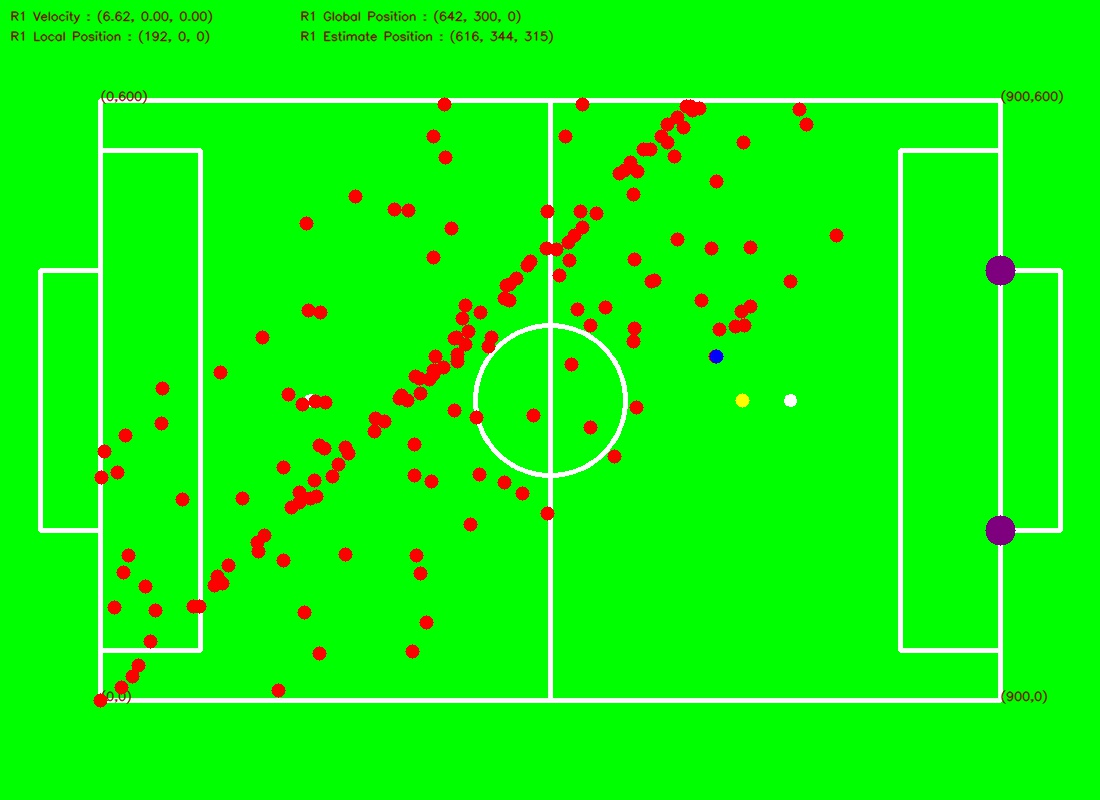
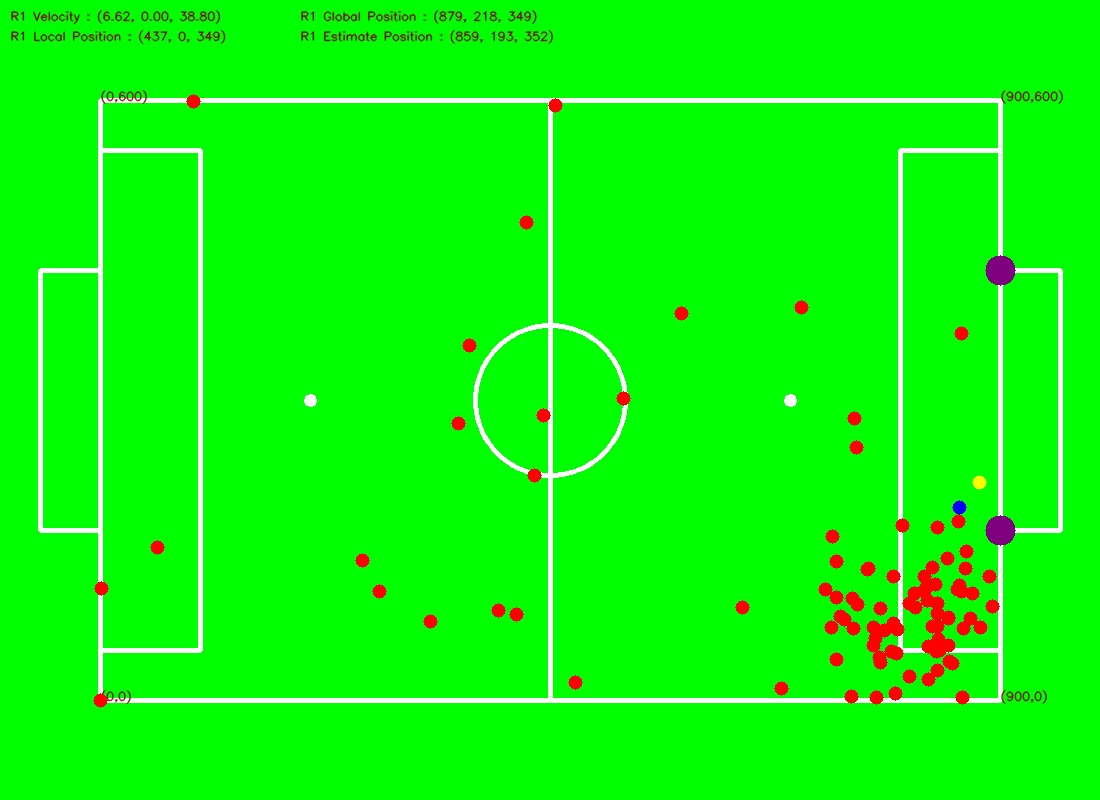
Fix update motion model robot 1

diff --git a/Source-Code/BarelangFC-Particle-Filter-Sim.py b/Source-Code/BarelangFC-Particle-Filter-Sim.py
@@ -24,57 +24,16 @@ UDP_PORT = 5005
 # Satuan dalam CM
 fieldLength = 900
 fieldWidth = 600
-totalParticles = 1000
+totalParticles = 100
 totalLandmarks = 2
-deltaTime = 1
-
-mapImage = np.zeros((800,1100,3), np.uint8)
-
-# Global Variable
-# Robot position 1D array
-robotGlobalPosition = np.zeros((3))
-robotInitialPosition = np.zeros((3))
-robotLocalPosition = np.zeros((3))
-
-# Estimate position
-estimatePosition = np.zeros((3))
-
-# Landmarks position 2D array
-landmarksPosition = np.zeros((totalLandmarks, 2))
-
-particlesGlobalPosition = np.zeros((totalParticles, 3))
-particlesLocalPosition = np.zeros((totalParticles, 3))
-particlesInitialPosition = np.zeros((totalParticles, 3))
-
-distanceRobotToLandmarks = np.zeros((totalLandmarks))
-distanceParticlesToLandmarks = np.zeros((totalParticles, totalLandmarks))
-particlesWeight= np.zeros((totalParticles))
-
-velFromKinematic = np.zeros((3))
-
-# Simualte velocity value
-# X Y alpha velocity command from robot
-realVelocity = np.zeros([3])
- 
+deltaTime = 0.5
 
 # Flask Webserver
 ##############################################################################
 # Definisi ID robot
-
 robotID = 1
 
 app = Flask(__name__)
-
-def shutdown_server():
-    func = request.environ.get('werkzeug.server.shutdown')
-    if func is None:
-        raise RuntimeError('Not running with the Werkzeug Server')
-    func()
-
-@app.route('/shutdown', methods=['POST'])
-def shutdown():
-    shutdown_server()
-    return 'Server shutting down...'
 
 # http://mattrichardson.com/Raspberry-Pi-Flask/
 @app.route('/')
@@ -120,6 +79,31 @@ def worldCoorToImageCoor(x, y):
     return x, y
 
 def main():
+    mapImage = np.zeros((800,1100,3), np.uint8)
+
+    # Global Variable
+    robotGlobalPosition = np.zeros((3))
+    robotInitialPosition = np.zeros((3))
+    robotLocalPosition = np.zeros((3))
+
+    # Estimate position
+    estimatePosition = np.zeros((3))
+
+    # Landmarks position 2D array
+    landmarksPosition = np.zeros((totalLandmarks, 2))
+
+    particlesGlobalPosition = np.zeros((totalParticles, 3))
+    particlesLocalPosition = np.zeros((totalParticles, 3))
+    particlesInitialPosition = np.zeros((totalParticles, 3))
+
+    distanceRobotToLandmarks = np.zeros((totalLandmarks))
+    distanceParticlesToLandmarks = np.zeros((totalParticles, totalLandmarks))
+    particlesWeight= np.zeros((totalParticles))
+
+    velFromKinematic = np.zeros((3))
+
+    realVelocity = np.zeros([3])
+
     # Set initial location of robot
     robotInitialPosition[0] = 450
     robotInitialPosition[1] = 300
@@ -134,8 +118,8 @@ def main():
     robotLocalPosition[2] = 0 # Heading
 
     # Initialize landmark position
-    landmarksPosition[:, 0] = uniform(0, fieldLength, size=totalLandmarks)
-    landmarksPosition[:, 1] = uniform(0, fieldWidth, size=totalLandmarks)
+    landmarksPosition[:,0] = uniform(0, fieldLength, size=totalLandmarks)
+    landmarksPosition[:,1] = uniform(0, fieldWidth, size=totalLandmarks)
 
     # Gawang lawan
     landmarksPosition[0,0] = 900
@@ -145,16 +129,15 @@ def main():
   
     velFromKinematic[0] = 0.02
     velFromKinematic[1] = 0.00
-    velFromKinematic[2] = 0.0
+    velFromKinematic[2] = 0.3
 
     # Create random position of particles
     # print 'Process ==> Create random particles'
-    particlesInitialPosition[:, 0] = uniform(0, fieldLength, size=totalParticles)
-    particlesInitialPosition[:, 1] = uniform(0, fieldWidth, size=totalParticles)
-    particlesInitialPosition[:, 2] = uniform(0, 360, size=totalParticles) 
-    particlesInitialPosition[:, 0] = np.random.choice(particlesInitialPosition[:, 0], totalParticles) 
-    particlesInitialPosition[:, 1] = np.random.choice(particlesInitialPosition[:, 1], totalParticles)
-    particlesInitialPosition[:, 2] = np.random.choice(360, totalParticles)
+    particlesInitialPosition[:,0] = uniform(0, fieldLength, size=totalParticles)
+    particlesInitialPosition[:,1] = uniform(0, fieldWidth, size=totalParticles)
+    particlesInitialPosition[:,2] = uniform(0, 360, size=totalParticles) 
+
+    # print "Particles Initial Position", particlesInitialPosition
 
     particlesGlobalPosition[:,0] = 0
     particlesGlobalPosition[:,1] = 0
@@ -274,45 +257,44 @@ def main():
             particlesLocalPosition[:,2] += realVelocity[2] * deltaTime
             
             # Simulate noise movement of robot with error stddev = 10
-            # particlesLocalPosition[:,0] = normal(particlesLocalPosition[:,0], 10)
-            # particlesLocalPosition[:,1] = normal(particlesLocalPosition[:,1], 10)
-            # particlesLocalPosition[:,2] = normal(particlesLocalPosition[:,1], 3)
+            simulateNoiseMovement = False
+            if simulateNoiseMovement == True:
+                particlesLocalPosition[:,0] = normal(particlesLocalPosition[:,0], 10)
+                particlesLocalPosition[:,1] = normal(particlesLocalPosition[:,1], 10)
+                particlesLocalPosition[:,2] = normal(particlesLocalPosition[:,2], 3)
 
-            for i in range (0,totalParticles):
-                if particlesLocalPosition[i, 2] >= 360:
-                    particlesLocalPosition[i, 2] = 0
-                if particlesLocalPosition[i, 2] < 0:
-                    particlesLocalPosition[i, 2] = 359
-                # Create matrix rotation
-                # Create matrix rotation
-                angle = particlesInitialPosition[i,2] + particlesLocalPosition[i,2]
-                # motion model heading
-                if angle >= 360:
-                    angle = 0
-                if angle < 0:
-                    angle = 359
-                theta = np.radians(angle)
-                c, s = np.cos(theta), np.sin(theta)
-                R = np.array(((c,-s), (s, c)))
-                npOutMatMul = np.matmul(R, particlesLocalPosition[i,:2]) 
-                particlesGlobalPosition[i,0] = npOutMatMul[0] + particlesInitialPosition[i,0]
-                particlesGlobalPosition[i,1] = npOutMatMul[1] + particlesInitialPosition[i,0]
-                particlesGlobalPosition[i,2] = angle
-                # Jika keluar lapangan random partikel yang baru
-                if particlesGlobalPosition[i,0] < 0 or particlesGlobalPosition[i,1] < 0 or particlesGlobalPosition[i,0] > fieldLength or particlesGlobalPosition[i,1] > fieldWidth:
-                    particlesInitialPosition[i, 0] = uniform(0, fieldLength)
-                    particlesInitialPosition[i, 1] = uniform(0, fieldWidth)
-                    particlesInitialPosition[i, 2] = uniform(0, 360)
-                    particlesGlobalPosition[i, 0] = 0
-                    particlesGlobalPosition[i, 1] = 0
-                    particlesGlobalPosition[i, 2] = 0
-                    particlesLocalPosition[i, 0] = 0
-                    particlesLocalPosition[i, 1] = 0
-                    particlesLocalPosition[i, 2] = 0
+            updateParticlesMovement = True
+            if updateParticlesMovement == True:
+                for i in range (0,totalParticles):
+                    if particlesLocalPosition[i, 2] >= 360:
+                        particlesLocalPosition[i, 2] = 0
+                    if particlesLocalPosition[i, 2] < 0:
+                        particlesLocalPosition[i, 2] = 359
+                    angle = particlesInitialPosition[i,2] + particlesLocalPosition[i,2]
+                    if angle >= 360:
+                        angle = 0
+                    if angle < 0:
+                        angle = 359
+                    theta = np.radians(angle)
+                    c, s = np.cos(theta), np.sin(theta)
+                    R = np.array(((c,-s), (s, c)))
+                    npOutMatMul = np.matmul(R, particlesLocalPosition[i,:2]) 
+                    particlesGlobalPosition[i,0] = npOutMatMul[0] + particlesInitialPosition[i,0]
+                    particlesGlobalPosition[i,1] = npOutMatMul[1] + particlesInitialPosition[i,1]
+                    particlesGlobalPosition[i,2] = angle
+                    # Jika keluar lapangan random partikel yang baru
+                    if particlesGlobalPosition[i,0] < 0 or particlesGlobalPosition[i,1] < 0 or particlesGlobalPosition[i,0] > fieldLength or particlesGlobalPosition[i,1] > fieldWidth:
+                        particlesInitialPosition[i, 0] = uniform(0, fieldLength)
+                        particlesInitialPosition[i, 1] = uniform(0, fieldWidth)
+                        particlesInitialPosition[i, 2] = uniform(0, 360)
+                        particlesGlobalPosition[i, 0] = 0
+                        particlesGlobalPosition[i, 1] = 0
+                        particlesGlobalPosition[i, 2] = 0
+                        particlesLocalPosition[i, 0] = 0
+                        particlesLocalPosition[i, 1] = 0
+                        particlesLocalPosition[i, 2] = 0
             
 
-            # print 'Particles position'
-            # print particlesGlobalPosition
             # Update measurement
             # Measurement distance between robot and landmarks
             for i in range (0,totalLandmarks):
@@ -397,16 +379,6 @@ def main():
             if streamUrl == True:
                 cv2.imwrite('stream.jpg', mapImage)
                 yield (b'--frame\r\n'b'Content-Type: image/jpeg\r\n\r\n' + open('stream.jpg', 'rb').read() + b'\r\n')
-            # particlesData.set_xdata(particlesGlobalPosition[:,0])
-            # particlesData.set_ydata(particlesGlobalPosition[:,1])
-            # robotPosData.set_xdata(robotPosition[0])
-            # robotPosData.set_ydata(robotPosition[1])
-            # estimatePosData.set_xdata(estimatePosition[0])
-            # estimatePosData.set_ydata(estimatePosition[1])
-            # landmarksPosData.set_xdata(landmarksPosition[:,0])
-            # landmarksPosData.set_ydata(landmarksPosition[:,1])
-            # plt.draw()
-            # plt.pause(1)
                     
             # Resample
             resample = True
@@ -425,24 +397,24 @@ def main():
                     particlesGlobalPosition[i,0] = 0
                     particlesGlobalPosition[i,1] = 0
                     particlesGlobalPosition[i,2] = 0
-                    particlesLocalPosition[i, 0] = 0
-                    particlesLocalPosition[i, 1] = 0
-                    particlesLocalPosition[i, 2] = 0
+                    particlesLocalPosition[i,0] = 0
+                    particlesLocalPosition[i,1] = 0
+                    particlesLocalPosition[i,2] = 0
 
                 _90PercentParticle = totalParticles - _10PercentParticle
 
                 # _90PercentParticle = totalParticles - 0
 
                 for i in range (_10PercentParticle + 1, _90PercentParticle):
-                    particlesInitialPosition[i,0] = normal(xHighest, 0.1)
-                    particlesInitialPosition[i,1] = normal(yHighest, 0.1)
-                    particlesInitialPosition[i,2] = normal(thetaHighest, 5)
+                    particlesInitialPosition[i,0] = normal(xHighest, 50)
+                    particlesInitialPosition[i,1] = normal(yHighest, 50)
+                    particlesInitialPosition[i,2] = normal(thetaHighest, 10)
                     particlesGlobalPosition[i,0] = 0
                     particlesGlobalPosition[i,1] = 0
                     particlesGlobalPosition[i,2] = 0
-                    particlesLocalPosition[i, 0] = 0
-                    particlesLocalPosition[i, 1] = 0
-                    particlesLocalPosition[i, 2] = 0
+                    particlesLocalPosition[i,0] = 0
+                    particlesLocalPosition[i,1] = 0
+                    particlesLocalPosition[i,2] = 0
 
 if __name__ == "__main__":
     print 'Running BarelangFC - MCL Localization'
